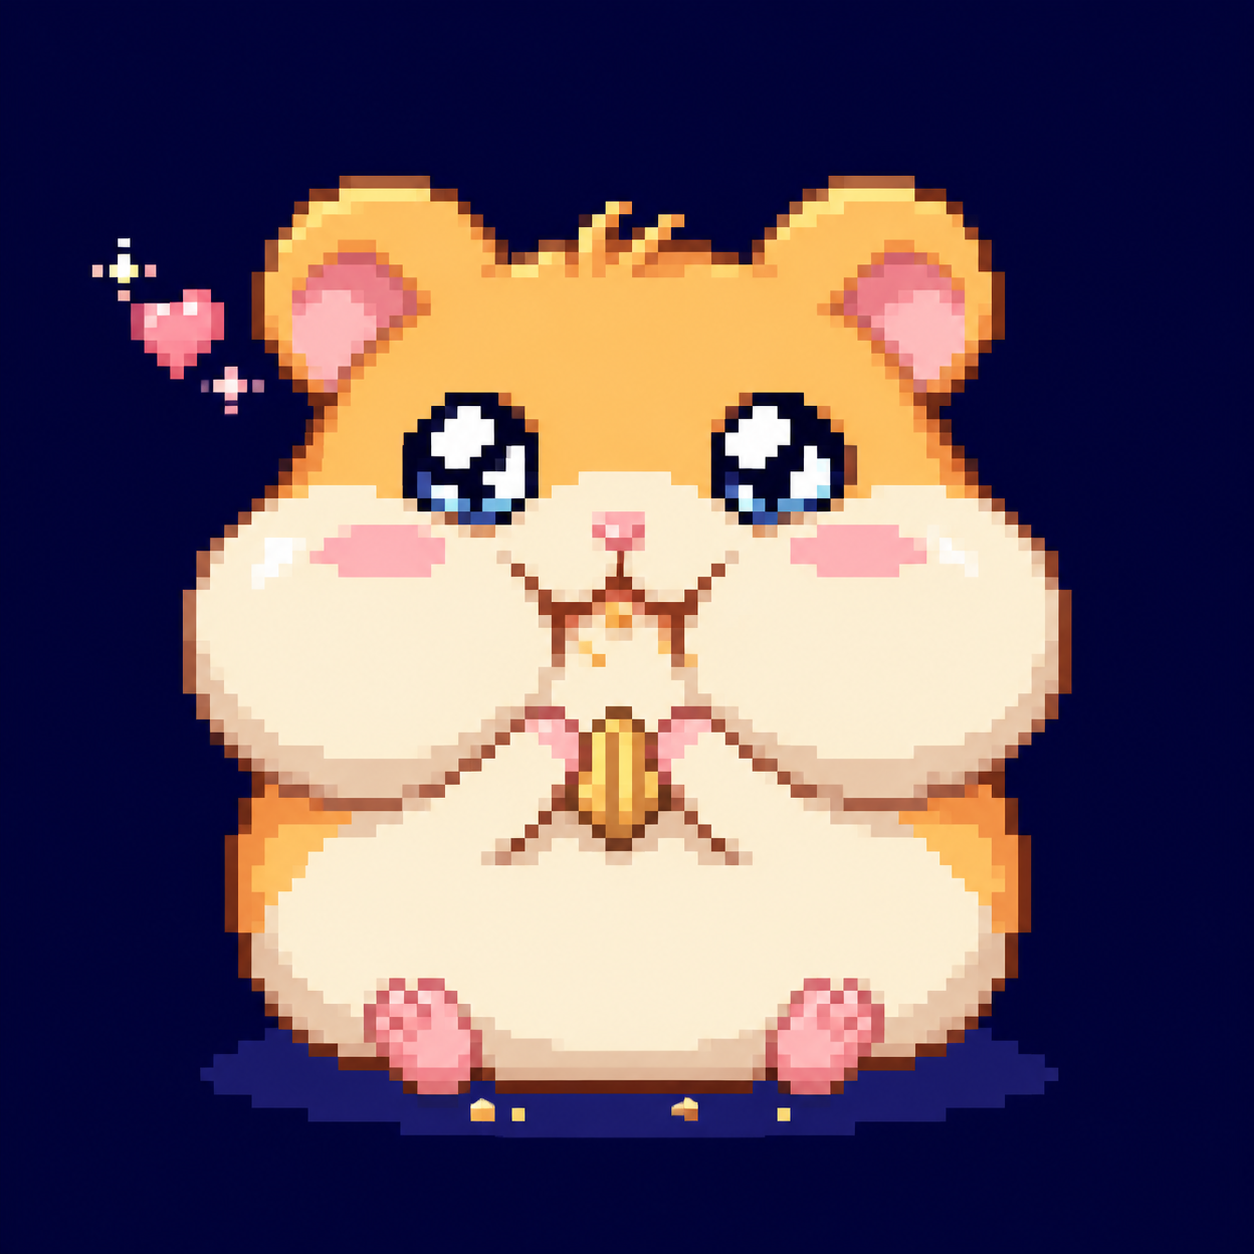
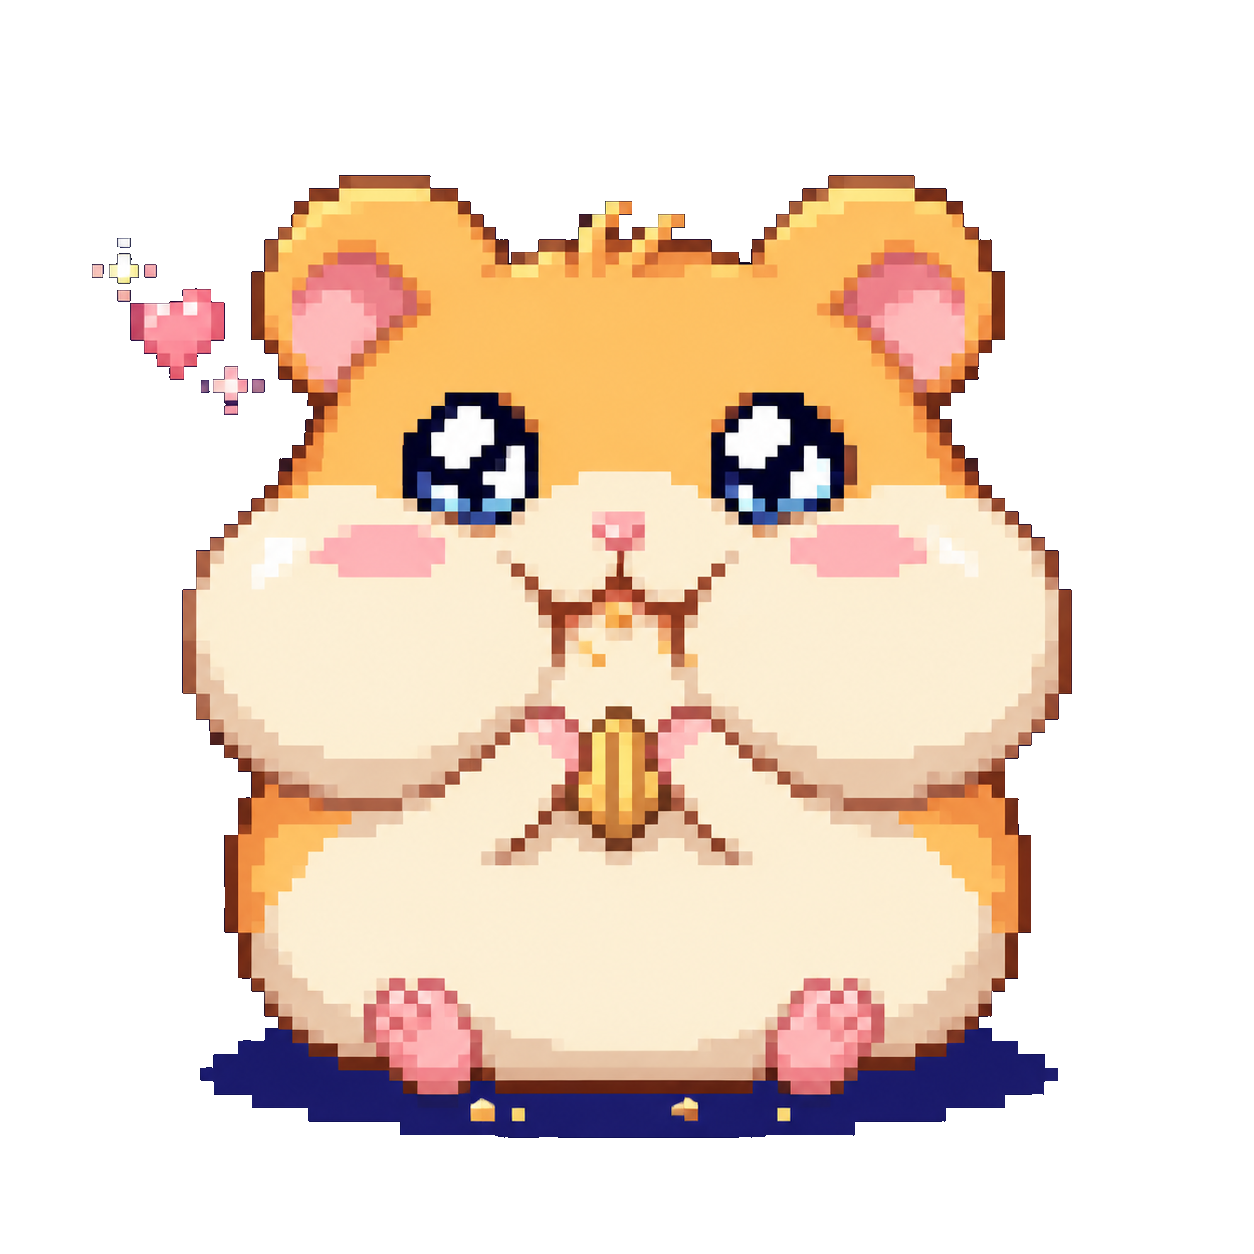
fix: make character background transparent, expand window size, and support window dragging

diff --git a/src/components/RamgottiPet.tsx b/src/components/RamgottiPet.tsx
@@ -1,5 +1,6 @@
 import React from 'react';
 import { PetState, CharacterItem } from '../types';
+import { startWindowDrag } from '../lib/tauri-bridge';
 
 interface Props {
   state: PetState;
@@ -16,16 +17,24 @@ export const RamgottiPet: React.FC<Props> = ({
 }) => {
   const isImageChar = character.id !== 'vector';
 
+  const handleMouseDown = (e: React.MouseEvent) => {
+    // Left-click initiates drag
+    if (e.button === 0) {
+      startWindowDrag();
+    }
+  };
+
   return (
     <div className="relative group select-none">
       {/* Settings Gear Button (Visible on Hover) */}
       <button
+        data-no-drag
         onClick={(e) => {
           e.stopPropagation();
           onOpenSettings?.();
         }}
         title="램고치 설정"
-        className="absolute -top-2 -left-2 z-20 w-6 h-6 rounded-full bg-slate-900/90 border border-slate-700 text-slate-300 hover:text-white hover:border-cyan-400 flex items-center justify-center text-xs shadow-md opacity-0 group-hover:opacity-100 transition-opacity"
+        className="absolute -top-2 -left-2 z-20 w-6 h-6 rounded-full bg-slate-900/90 border border-slate-700 text-slate-300 hover:text-white hover:border-cyan-400 flex items-center justify-center text-xs shadow-md opacity-0 group-hover:opacity-100 transition-opacity cursor-pointer"
       >
         ⚙
       </button>
@@ -33,8 +42,9 @@ export const RamgottiPet: React.FC<Props> = ({
       {/* Pet Interactive Body */}
       <div
         data-tauri-drag-region
+        onMouseDown={handleMouseDown}
         onClick={onClick}
-        className={`relative cursor-pointer transition-transform duration-300 hover:scale-105 ${
+        className={`relative cursor-grab active:cursor-grabbing transition-transform duration-300 hover:scale-105 select-none ${
           state === 'panic'
             ? 'animate-wiggle'
             : state === 'cleaning'
@@ -46,14 +56,15 @@ export const RamgottiPet: React.FC<Props> = ({
       >
         {isImageChar ? (
           /* High-Quality Bitmap Mascot Character */
-          <div className="relative w-36 h-36 flex items-center justify-center">
+          <div className="relative w-36 h-36 flex items-center justify-center pointer-events-none">
             {/* Ground Shadow */}
             <div className="absolute bottom-2 w-28 h-6 bg-slate-950/50 rounded-full blur-[2px] -z-10" />
 
             <img
               src={character.image}
               alt={character.name}
-              className={`w-32 h-32 object-contain drop-shadow-2xl transition-all ${
+              draggable={false}
+              className={`w-32 h-32 object-contain drop-shadow-2xl transition-all select-none pointer-events-none ${
                 state === 'sleep'
                   ? 'brightness-90 translate-y-1'
                   : state === 'panic'

diff --git a/src/App.tsx b/src/App.tsx
@@ -133,7 +133,7 @@ export function App() {
   };
 
   return (
-    <main className="w-screen h-screen flex flex-col items-end justify-end p-4 bg-transparent select-none overflow-hidden relative">
+    <main className="w-screen h-screen flex flex-col items-center justify-end pb-4 px-6 bg-transparent select-none overflow-hidden relative">
       {/* Settings Modal */}
       {isSettingsOpen && (
         <SettingsModal
@@ -144,7 +144,7 @@ export function App() {
       )}
 
       {/* 1. Speech Bubble / Receipt area (Above Pet) */}
-      <div className="flex flex-col items-end mb-1">
+      <div className="flex flex-col items-center mb-1 w-full max-w-[280px]">
         {cleanResult && (
           <CleanReceipt result={cleanResult} onClose={() => setCleanResult(null)} />
         )}
@@ -155,7 +155,7 @@ export function App() {
       </div>
 
       {/* 2. Floating Pet Container */}
-      <div className="relative group">
+      <div className="relative group flex flex-col items-center">
         <RamgottiPet
           state={petState}
           character={currentChar}
@@ -164,7 +164,7 @@ export function App() {
         />
 
         {/* Level & RAM badge on hover */}
-        <div className="absolute -bottom-1 left-1/2 -translate-x-1/2 opacity-0 group-hover:opacity-100 transition-opacity bg-slate-900/90 border border-slate-700 text-slate-200 px-2 py-0.5 rounded-full text-[10px] font-pixel whitespace-nowrap pointer-events-none">
+        <div className="absolute -bottom-1 left-1/2 -translate-x-1/2 opacity-0 group-hover:opacity-100 transition-opacity bg-slate-900/90 border border-slate-700 text-slate-200 px-2.5 py-0.5 rounded-full text-[10px] font-pixel whitespace-nowrap pointer-events-none shadow-lg z-10">
           Lv.{evolution.level} {currentChar.name} · RAM {stats?.usedPercent ?? 0}%
         </div>
       </div>

diff --git a/src/lib/tauri-bridge.ts b/src/lib/tauri-bridge.ts
@@ -56,3 +56,20 @@ export async function triggerCleanMemory(): Promise<CleanResult> {
     expGained: freedMb,
   };
 }
+
+export async function startWindowDrag(): Promise<void> {
+  if (isTauri) {
+    try {
+      const { invoke } = await import('@tauri-apps/api/core');
+      await invoke('start_drag');
+      return;
+    } catch {
+      try {
+        const { getCurrentWindow } = await import('@tauri-apps/api/window');
+        await getCurrentWindow().startDragging();
+      } catch (err) {
+        console.warn('startDragging failed:', err);
+      }
+    }
+  }
+}

diff --git a/src-tauri/src/lib.rs b/src-tauri/src/lib.rs
@@ -119,10 +119,15 @@ fn clean_memory() -> Result<CleanResult, String> {
     })
 }
 
+#[tauri::command]
+fn start_drag(window: tauri::Window) -> Result<(), String> {
+    window.start_dragging().map_err(|e| e.to_string())
+}
+
 pub fn run() {
     tauri::Builder::default()
         .plugin(tauri_plugin_shell::init())
-        .invoke_handler(tauri::generate_handler![get_memory_stats, clean_memory])
+        .invoke_handler(tauri::generate_handler![get_memory_stats, clean_memory, start_drag])
         .run(tauri::generate_context!())
         .expect("error while running ramgotti");
 }
